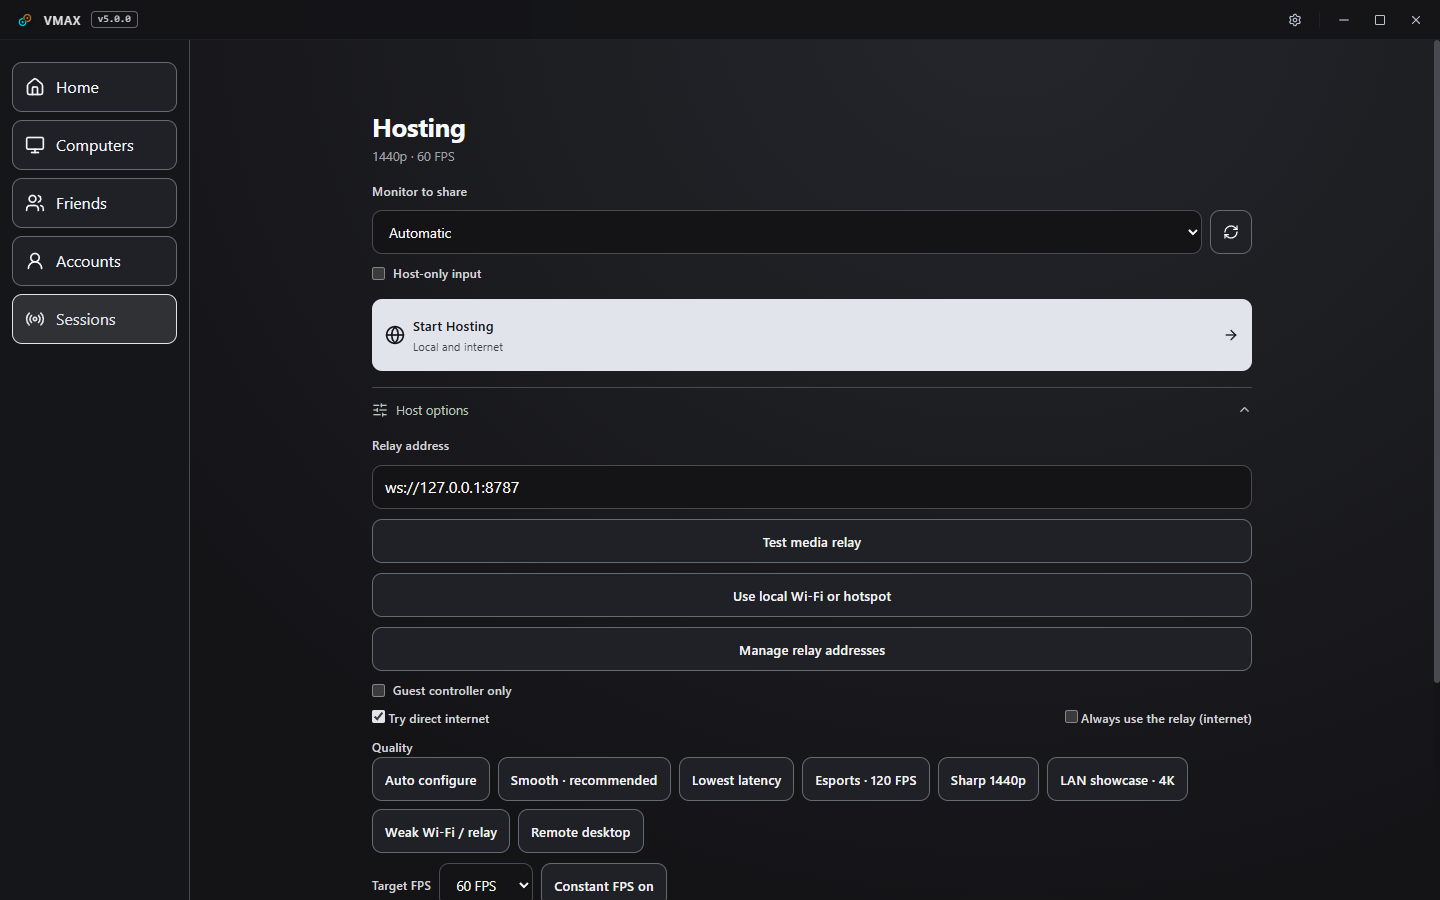
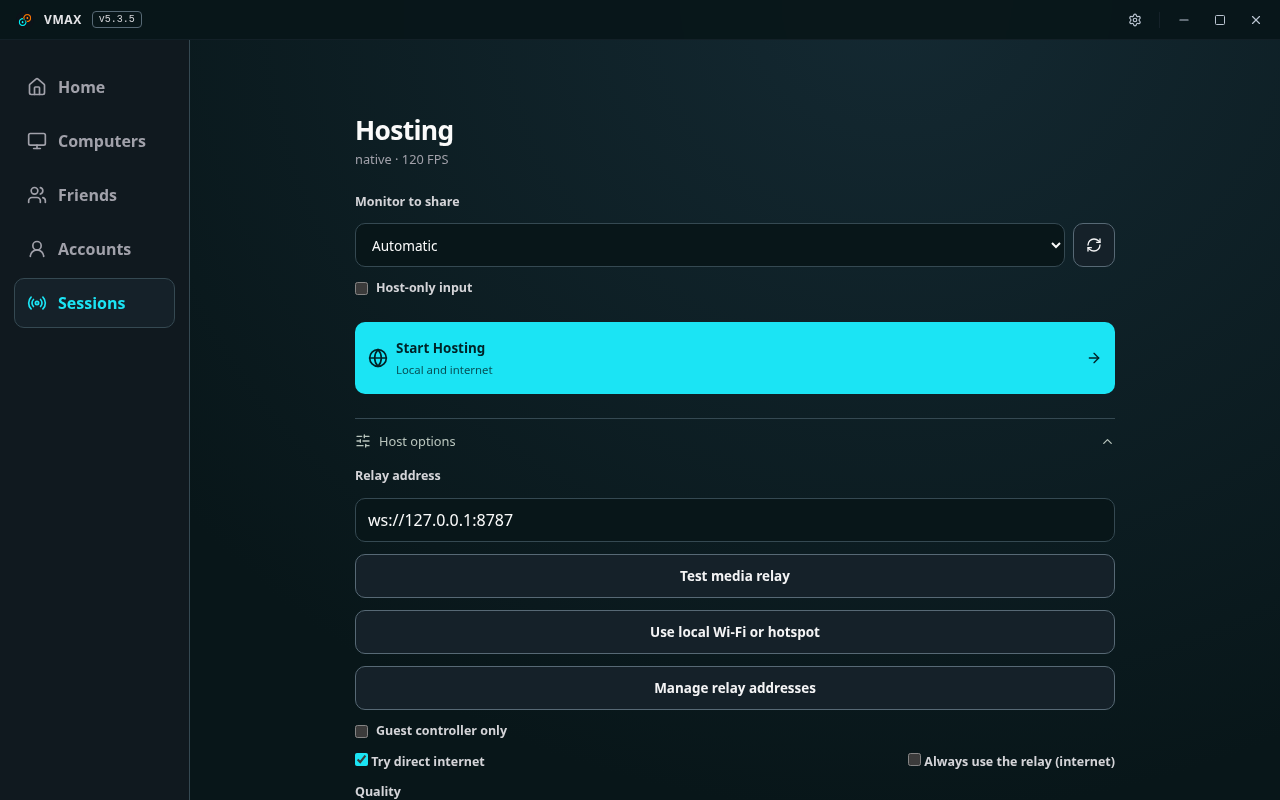
Release VmaX 5.3.5 with stream recovery and ordered input

diff --git a/src/components/StreamViewer.tsx b/src/components/StreamViewer.tsx
@@ -225,13 +225,18 @@ function normalizeBinaryFrame(payload: unknown): Uint8Array | null {
   return null;
 }
 
+let inputTransitions: Promise<void> = Promise.resolve();
+
 function dispatchRemoteInput(input: RemoteInputPayload) {
   if (!hasTauriRuntime()) {
     return Promise.resolve();
   }
-  return invoke<void>("send_input_event", { input }).catch(() => {
-    // Session might be disconnecting; ignore transient IPC rejection.
-  });
+  const send = () => invoke<void>("send_input_event", { input }).catch(() => {});
+  if (input.kind === "key" || input.kind === "mouse_button") {
+    inputTransitions = inputTransitions.then(send);
+    return inputTransitions;
+  }
+  return send();
 }
 
 function isLocalSystemKey(event: KeyboardEvent) {
@@ -325,7 +330,7 @@ export function StreamViewer({
   const [overlayVisible, setOverlayVisible] = useState(false);
   const [hostEncodeMs, setHostEncodeMs] = useState<number | null>(null);
   const [parsecTelemetry, setParsecTelemetry] = useState<ParsecTelemetryPayload | null>(null);
-  const [recoverStalls, setRecoverStalls] = useState(false);
+  const [recoverStalls, setRecoverStalls] = useState(true);
   const recoverStallsRef = useRef(recoverStalls);
   recoverStallsRef.current = recoverStalls;
   const [activeCodecLabel, setActiveCodecLabel] = useState<string>("H.265");
@@ -753,6 +758,8 @@ export function StreamViewer({
     let videoBytes = 0;
     let drawnFrames = 0;
     let lastDrawnAt = 0;
+    let lastVideoPacketAt = 0;
+    let lastStallResetAt = -Infinity;
     let decodeSamples = 0;
     let decodeTotalMs = 0;
     let lastPlaybackSample = performance.now();
@@ -808,12 +815,17 @@ export function StreamViewer({
         requestSyncKeyframe("awaiting_first_frame");
       }
       if (
-        receivedFirstFrame &&
+        connectedRef.current &&
         !nativeVideoRef.current &&
         !document.hidden &&
+        lastVideoPacketAt > 0 &&
+        now - lastVideoPacketAt < 1_000 &&
         now - lastDrawnAt >= 1_000 &&
+        now - lastStallResetAt >= 2_000 &&
         recoverStallsRef.current
       ) {
+        lastStallResetAt = now;
+        resetDecoder();
         requestSyncKeyframe("video_stalled");
       }
       lastPlaybackSample = now;
@@ -1041,6 +1053,7 @@ export function StreamViewer({
           return;
         }
 
+        lastVideoPacketAt = performance.now();
         const view = new DataView(bytes.buffer, bytes.byteOffset, bytes.byteLength);
         const frameId = view.getUint32(0, false);
         const tsUs = Number(view.getBigUint64(4, false));
@@ -1163,6 +1176,7 @@ export function StreamViewer({
   }, []);
 
   useEffect(() => {
+    if (!connected || inputBlocked) return;
     const pressedScancodes = new Set<number>();
 
     const onKeyDown = (event: KeyboardEvent) => {
@@ -1240,12 +1254,20 @@ export function StreamViewer({
     const releaseOnHidden = () => {
       if (document.hidden) onBlur();
     };
+    const releaseOnUnlock = () => {
+      if (document.pointerLockElement !== canvasRef.current) {
+        releaseHeldKeys();
+        releaseMouse();
+      }
+    };
+    document.addEventListener("pointerlockchange", releaseOnUnlock);
     document.addEventListener("visibilitychange", releaseOnHidden);
     window.addEventListener("keydown", onKeyDown);
     window.addEventListener("keyup", onKeyUp);
     window.addEventListener("blur", onBlur);
     window.addEventListener("mouseup", onMouseUp, true);
     return () => {
+      document.removeEventListener("pointerlockchange", releaseOnUnlock);
       document.removeEventListener("visibilitychange", releaseOnHidden);
       window.removeEventListener("keydown", onKeyDown);
       window.removeEventListener("keyup", onKeyUp);
@@ -1253,7 +1275,7 @@ export function StreamViewer({
       window.removeEventListener("mouseup", onMouseUp, true);
       onBlur();
     };
-  }, [releaseKeyboardCapture, releaseMouse]);
+  }, [connected, inputBlocked, releaseKeyboardCapture, releaseMouse]);
 
   const handleCanvasPointerMove = (event: ReactPointerEvent<HTMLCanvasElement>) => {
     if (event.pointerType === "touch") {
@@ -1326,7 +1348,7 @@ export function StreamViewer({
       sourceCapabilities?: { firesTouchEvents?: boolean };
     };
     if (nativeEvent.sourceCapabilities?.firesTouchEvents) return;
-    if (inputBlocked || event.button < 0 || event.button > 4) return;
+    if (!connected || inputBlocked || event.button < 0 || event.button > 4) return;
     event.preventDefault();
     pressedMouse.current.add(event.button);
     void dispatchRemoteInput({ kind: "mouse_button", button: event.button, pressed: true });

diff --git a/src/App.tsx b/src/App.tsx
@@ -201,6 +201,7 @@ export function App() {
   });
   const [pingHistory, setPingHistory] = useState<number[]>([]);
   const [logs, setLogs] = useState<PacketLogEntry[]>([]);
+  const [playerNotices, setPlayerNotices] = useState<{ id: number; text: string; expires: number }[]>([]);
   const [uiError, setUiError] = useState<string | null>(null);
   const [busy, setBusy] = useState(false);
   const [saved, setSaved] = useState<SavedConnections>(EMPTY_SAVED);
@@ -338,6 +339,16 @@ export function App() {
       return;
     }
 
+    let nextNotice = 0;
+    const unlistenPresence = listen<{ slot: number; joined: boolean }>("vmax://player-presence", ({ payload }) => {
+      const notice = {
+        id: nextNotice++,
+        text: `Player ${payload.slot + 1} ${payload.joined ? "joined" : "left"}`,
+        expires: Date.now() + 4_000,
+      };
+      setPlayerNotices((previous) => [...previous.slice(-7), notice]);
+    });
+
     const unlistenTel = listen<NetworkTelemetry>("vmax://telemetry", (event) => {
       if (stopping.current) return;
       telemetryRevision.current += 1;
@@ -400,12 +411,23 @@ export function App() {
     });
 
     return () => {
+      unlistenPresence.then((f) => f()).catch(() => {});
       unlistenTel.then((f) => f()).catch(() => {});
       unlistenHw.then((f) => f()).catch(() => {});
       unlistenLog.then((f) => f()).catch(() => {});
       unlistenRelay.then((f) => f()).catch(() => {});
     };
   }, []);
+
+  const nextNoticeExpiry = playerNotices[0]?.expires;
+  useEffect(() => {
+    if (nextNoticeExpiry === undefined) return;
+    const timer = window.setTimeout(() => {
+      const now = Date.now();
+      setPlayerNotices((previous) => previous.filter(({ expires }) => expires > now));
+    }, Math.max(0, nextNoticeExpiry - Date.now()));
+    return () => window.clearTimeout(timer);
+  }, [nextNoticeExpiry]);
 
   const livePingMs = isConnected ? telemetry.rtt_ms : 0;
 
@@ -773,6 +795,13 @@ export function App() {
 
   return (
     <>
+      <div role="log" aria-label="Player activity" className="pointer-events-none fixed inset-x-4 top-14 z-[80] flex flex-col items-end gap-2">
+        {playerNotices.map(({ id, text }) => (
+          <div key={id} className="rounded-lg border border-zinc-700 bg-zinc-950 px-3 py-2 text-sm text-zinc-100 shadow-lg">
+            {text}
+          </div>
+        ))}
+      </div>
       <CloudAccounts section={view !== "streaming" && (page === "friends" || page === "computers" || page === "accounts") ? page : null}
         container={accountPanel} canHost={canHost} active={busy || isSessionActive}
         hostParams={() => buildStartSessionParams(signalingUrl)}

diff --git a/src/App.css b/src/App.css
@@ -377,3 +377,62 @@ input:is([type="range"], [type="checkbox"]), input[type="radio"] { accent-color:
   .vmax-workspace-content .vmax-panel { gap: 12px; }
   .vmax-home { padding-bottom: 12px; }
 }
+
+/* Keep navigation quiet and give the connection form a readable width. */
+.vmax-workspace-content .vmax-panel {
+  max-width: 760px;
+  gap: 24px;
+}
+.vmax-workspace .vmax-nav {
+  gap: 4px;
+  padding-inline: 14px;
+}
+.vmax-workspace .vmax-nav button {
+  border-color: transparent;
+  background: transparent;
+  color: #a1a1aa;
+  font-weight: 550;
+}
+.vmax-workspace .vmax-nav button:hover {
+  background: var(--vmax-card);
+  color: #fafafa;
+}
+.vmax-workspace .vmax-nav button[aria-pressed="true"] {
+  background: var(--vmax-card);
+  border-color: var(--vmax-line);
+  color: var(--vmax-accent);
+}
+.vmax-home {
+  gap: 16px;
+  padding-bottom: 24px;
+}
+.vmax-brand {
+  gap: 14px;
+}
+.vmax-brand-logo {
+  width: 48px;
+  height: 48px;
+  box-shadow: none;
+}
+.vmax-brand h1 {
+  font-size: clamp(1.45rem, 3vw, 1.9rem);
+  letter-spacing: -.025em;
+}
+.vmax-home > .vmax-secondary {
+  min-height: 40px;
+}
+.vmax-workspace-content .vmax-switch {
+  max-width: 440px;
+}
+.vmax-workspace-content .vmax-form {
+  gap: 12px;
+}
+.vmax-workspace-content .vmax-form > .vmax-primary {
+  min-height: 46px;
+}
+@media (max-width: 760px), (pointer: coarse) {
+  .vmax-workspace-content .vmax-panel { gap: 18px; }
+  .vmax-workspace .vmax-nav { padding-inline: 6px; }
+  .vmax-home { padding-bottom: 16px; }
+  .vmax-brand-logo { width: 40px; height: 40px; }
+}

diff --git a/src-tauri/src/network.rs b/src-tauri/src/network.rs
@@ -2671,14 +2671,7 @@ async fn run_quic_multiplex_loop(
                         counters.input_events_tx.fetch_add(1, Ordering::Relaxed);
                     }
                 } else {
-                    // Critical transitions (keys/buttons/wheel/text) take a
-                    // datagram fast path so packet loss on the reliable stream
-                    // cannot add head-of-line input lag. The same sequence is
-                    // still written to the reliable stream as loss recovery;
-                    // the host deduplicates whichever copy arrives second.
-                    if datagram_fits {
-                        let _ = conn.send_datagram(bytes.clone());
-                    }
+                    // Preserve transition order so a release cannot overtake its press.
                     let mut framed = BytesMut::with_capacity(4 + bytes.len());
                     framed.put_u32(bytes.len() as u32);
                     framed.extend_from_slice(&bytes);
@@ -3594,9 +3587,28 @@ mod tests {
                 let payload = Bytes::from(vec![0x35; 24_000]);
                 let video_tx = host.tx.video_tx.clone();
                 let audio_tx = host.tx.audio_tx.clone();
+                let input_tx = client.tx.input_tx.clone();
+                const TRANSITIONS: u32 = 64;
+                let input_event = |id: u32| {
+                    let pressed = id % 2 == 0;
+                    if id % 4 < 2 {
+                        crate::protocol::InputEvent::Key { scan_code: 30, pressed, modifiers: 0 }
+                    } else {
+                        crate::protocol::InputEvent::MouseButton { button: 0, pressed }
+                    }
+                };
                 let produce = async move {
                     for id in 0..480u32 {
                         cadence.tick().await;
+                        if id % 6 == 0 && id / 6 < TRANSITIONS {
+                            let number = id / 6;
+                            input_tx.send(InputPacket {
+                                seq: u64::from(number) + 1,
+                                client_ts_us: u64::from(id) * 16_667,
+                                event: input_event(number),
+                            }).await.unwrap();
+                        }
+
                         // Skip one reference frame each second. A new keyframe
                         // after the gap models the host's recovery response.
                         if id % 60 != 48 {
@@ -3674,8 +3686,19 @@ mod tests {
                         "a replacement keyframe was lost, relayed={relay_only}"
                     );
                 };
+                let collect_input = async {
+                    for number in 0..TRANSITIONS {
+                        loop {
+                            if let NetworkEvent::InputEventReceived(packet) = host.event_rx.recv().await.unwrap() {
+                                assert_eq!(packet.seq, u64::from(number) + 1);
+                                assert_eq!(packet.event, input_event(number));
+                                break;
+                            }
+                        }
+                    }
+                };
                 timeout(Duration::from_secs(15), async {
-                    tokio::join!(produce, consume);
+                    tokio::join!(produce, consume, collect_input);
                 })
                 .await
                 .expect("stream stalled under load");

diff --git a/src-tauri/src/commands.rs b/src-tauri/src/commands.rs
@@ -1492,6 +1492,7 @@ fn register_session<'a>(
         #[cfg(target_os = "android")]
         let touch = state.touch_gamepad.clone();
         let forwarder = tauri::async_runtime::spawn(async move {
+            let mut guest_connected = false;
             let mut video_rx_count: u64 = 0;
             let mut audio_rx_count: u64 = 0;
             let mut input_rx_count: u64 = 0;
@@ -1689,6 +1690,13 @@ fn register_session<'a>(
                             format!("Phase -> {phase:?}"),
                         );
                         let is_live = phase == ConnectionPhase::Connected;
+                        if ctx.role == SessionRole::Host && guest_connected != is_live {
+                            guest_connected = is_live;
+                            let _ = ctx.app.emit(
+                                "vmax://player-presence",
+                                serde_json::json!({ "slot": 0, "joined": is_live }),
+                            );
+                        }
                         #[cfg(target_os = "windows")]
                         if ctx.role == SessionRole::Host {
                             gamepad = is_live.then(HostGamepad::default);
@@ -2090,6 +2098,12 @@ fn register_session<'a>(
                 haptics::deliver_android(Rumble::default(), false);
             }
             if ctx.role == SessionRole::Host {
+                if guest_connected {
+                    let _ = ctx.app.emit(
+                        "vmax://player-presence",
+                        serde_json::json!({ "slot": 0, "joined": false }),
+                    );
+                }
                 let app_rehost = ctx.app.clone();
                 tauri::async_runtime::spawn(async move {
                     let state = app_rehost.state::<AppState>();
